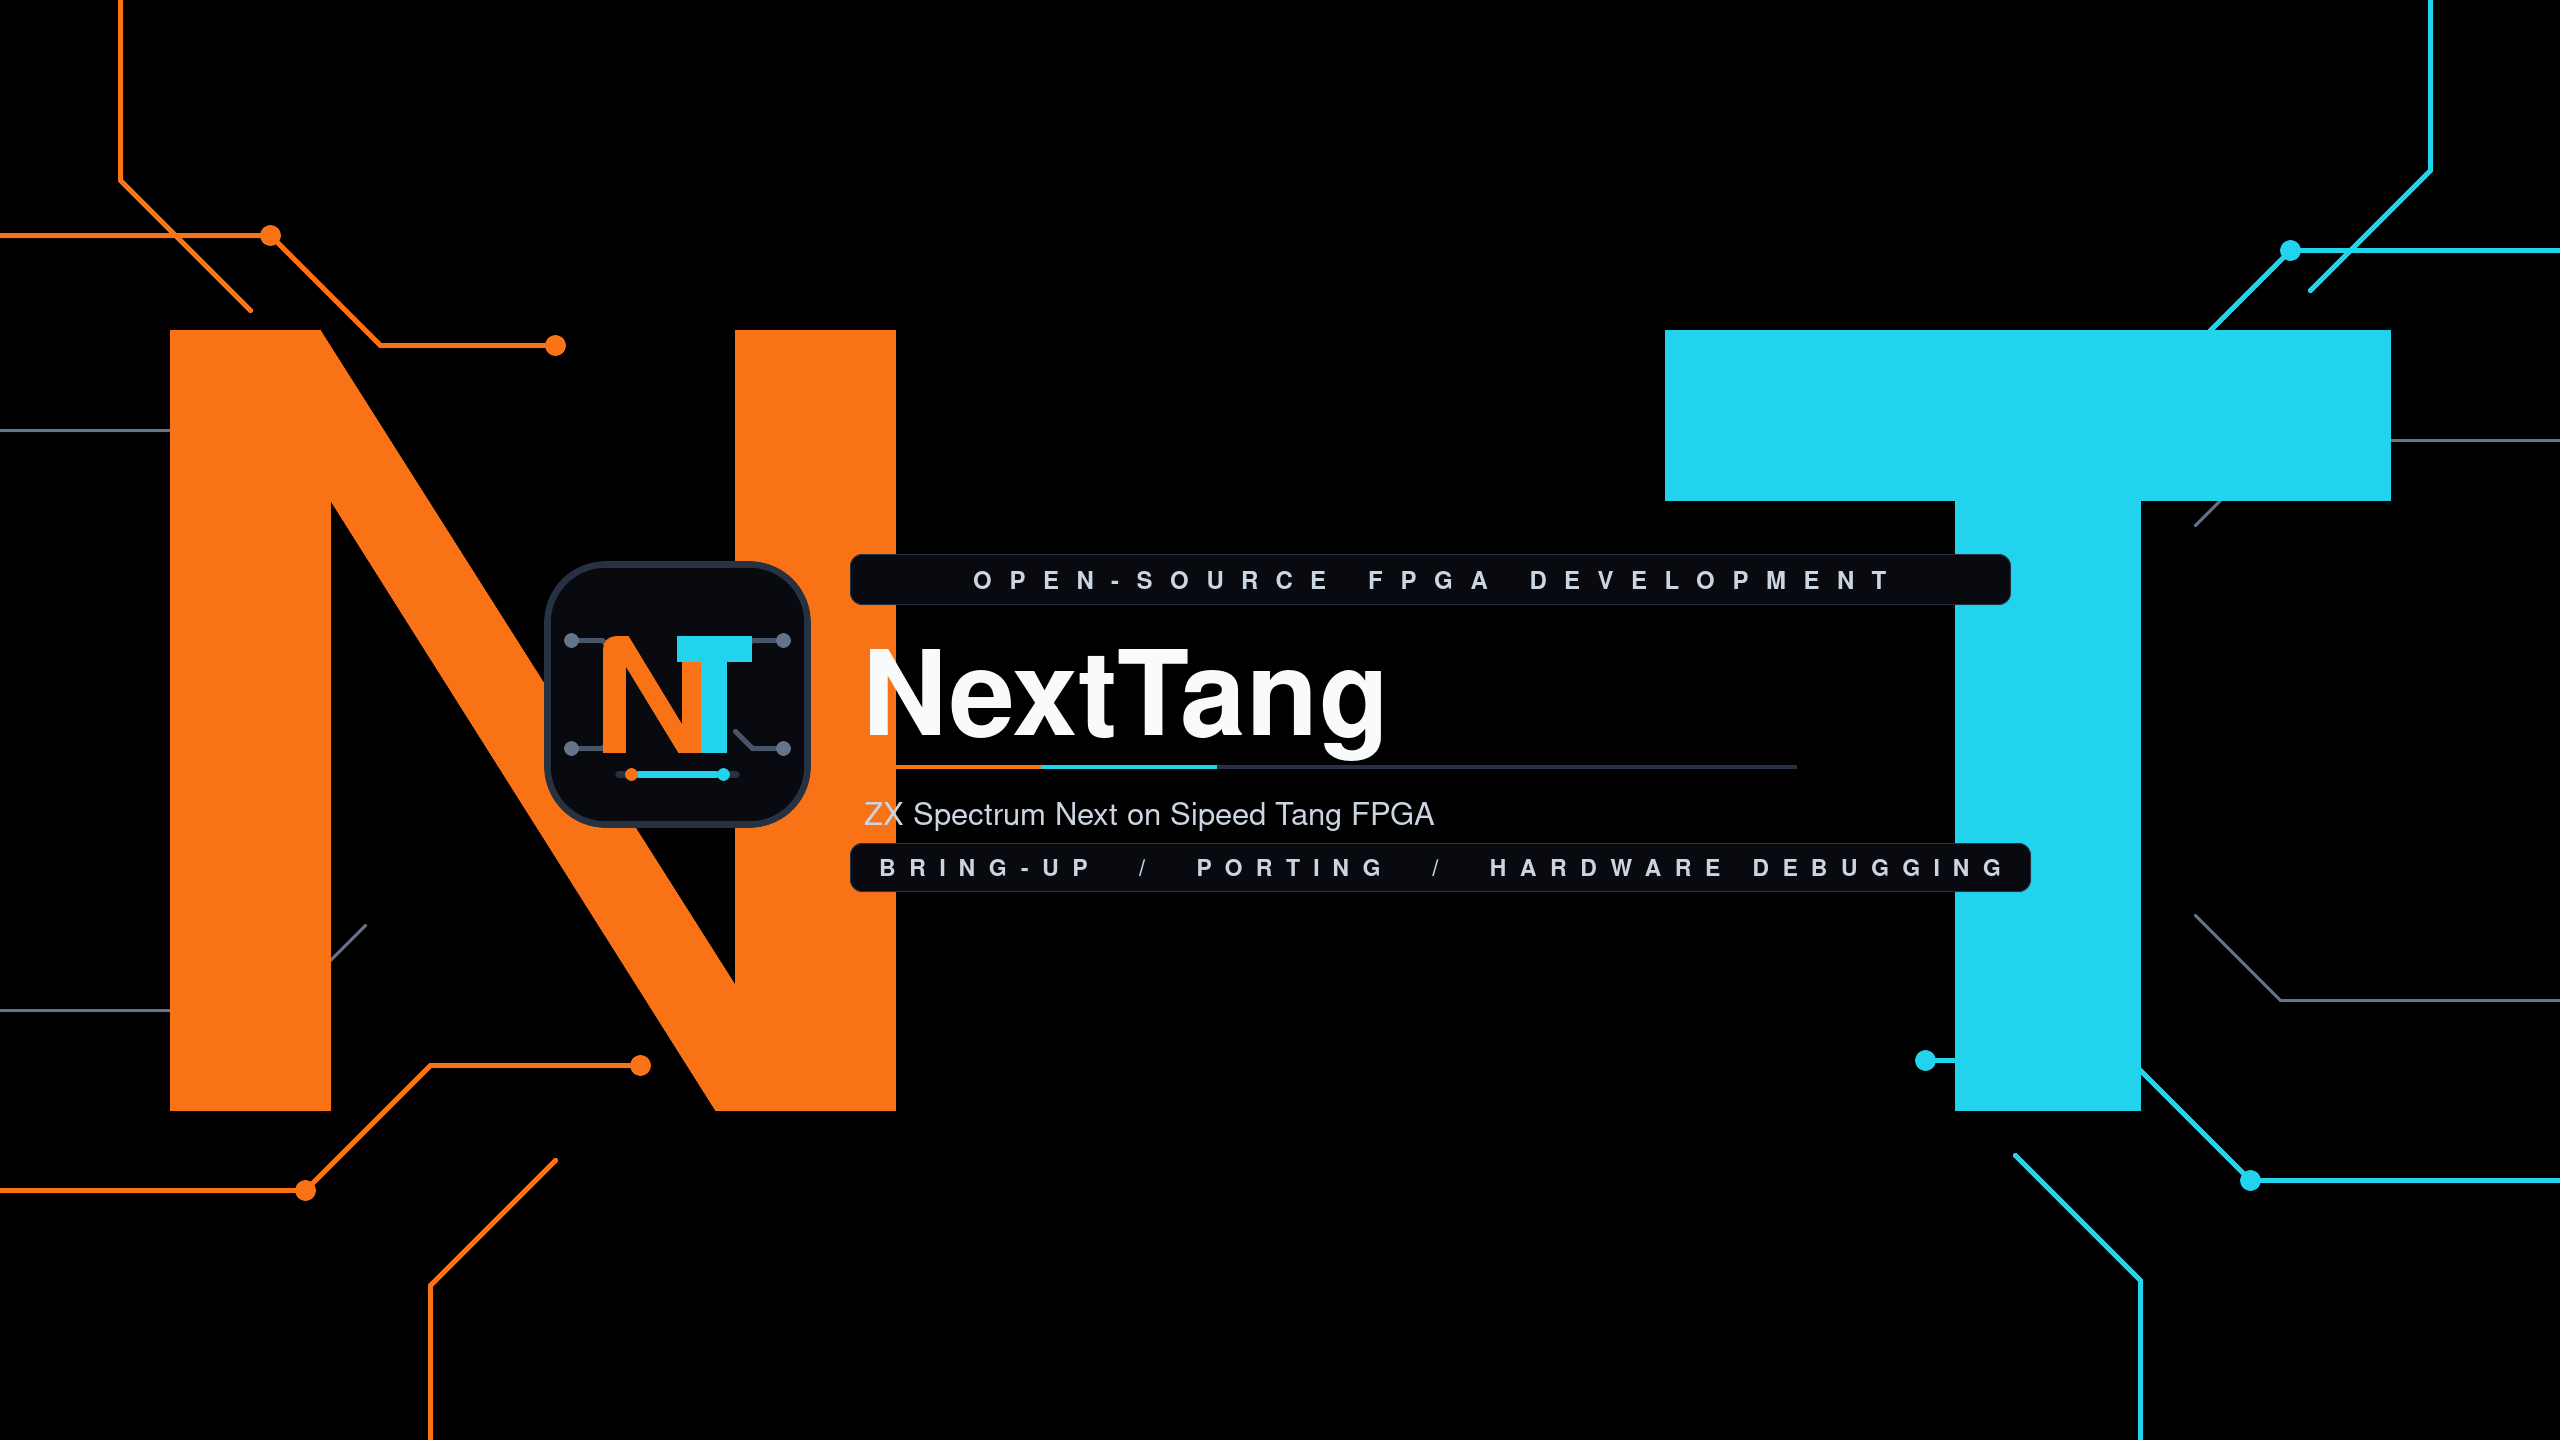
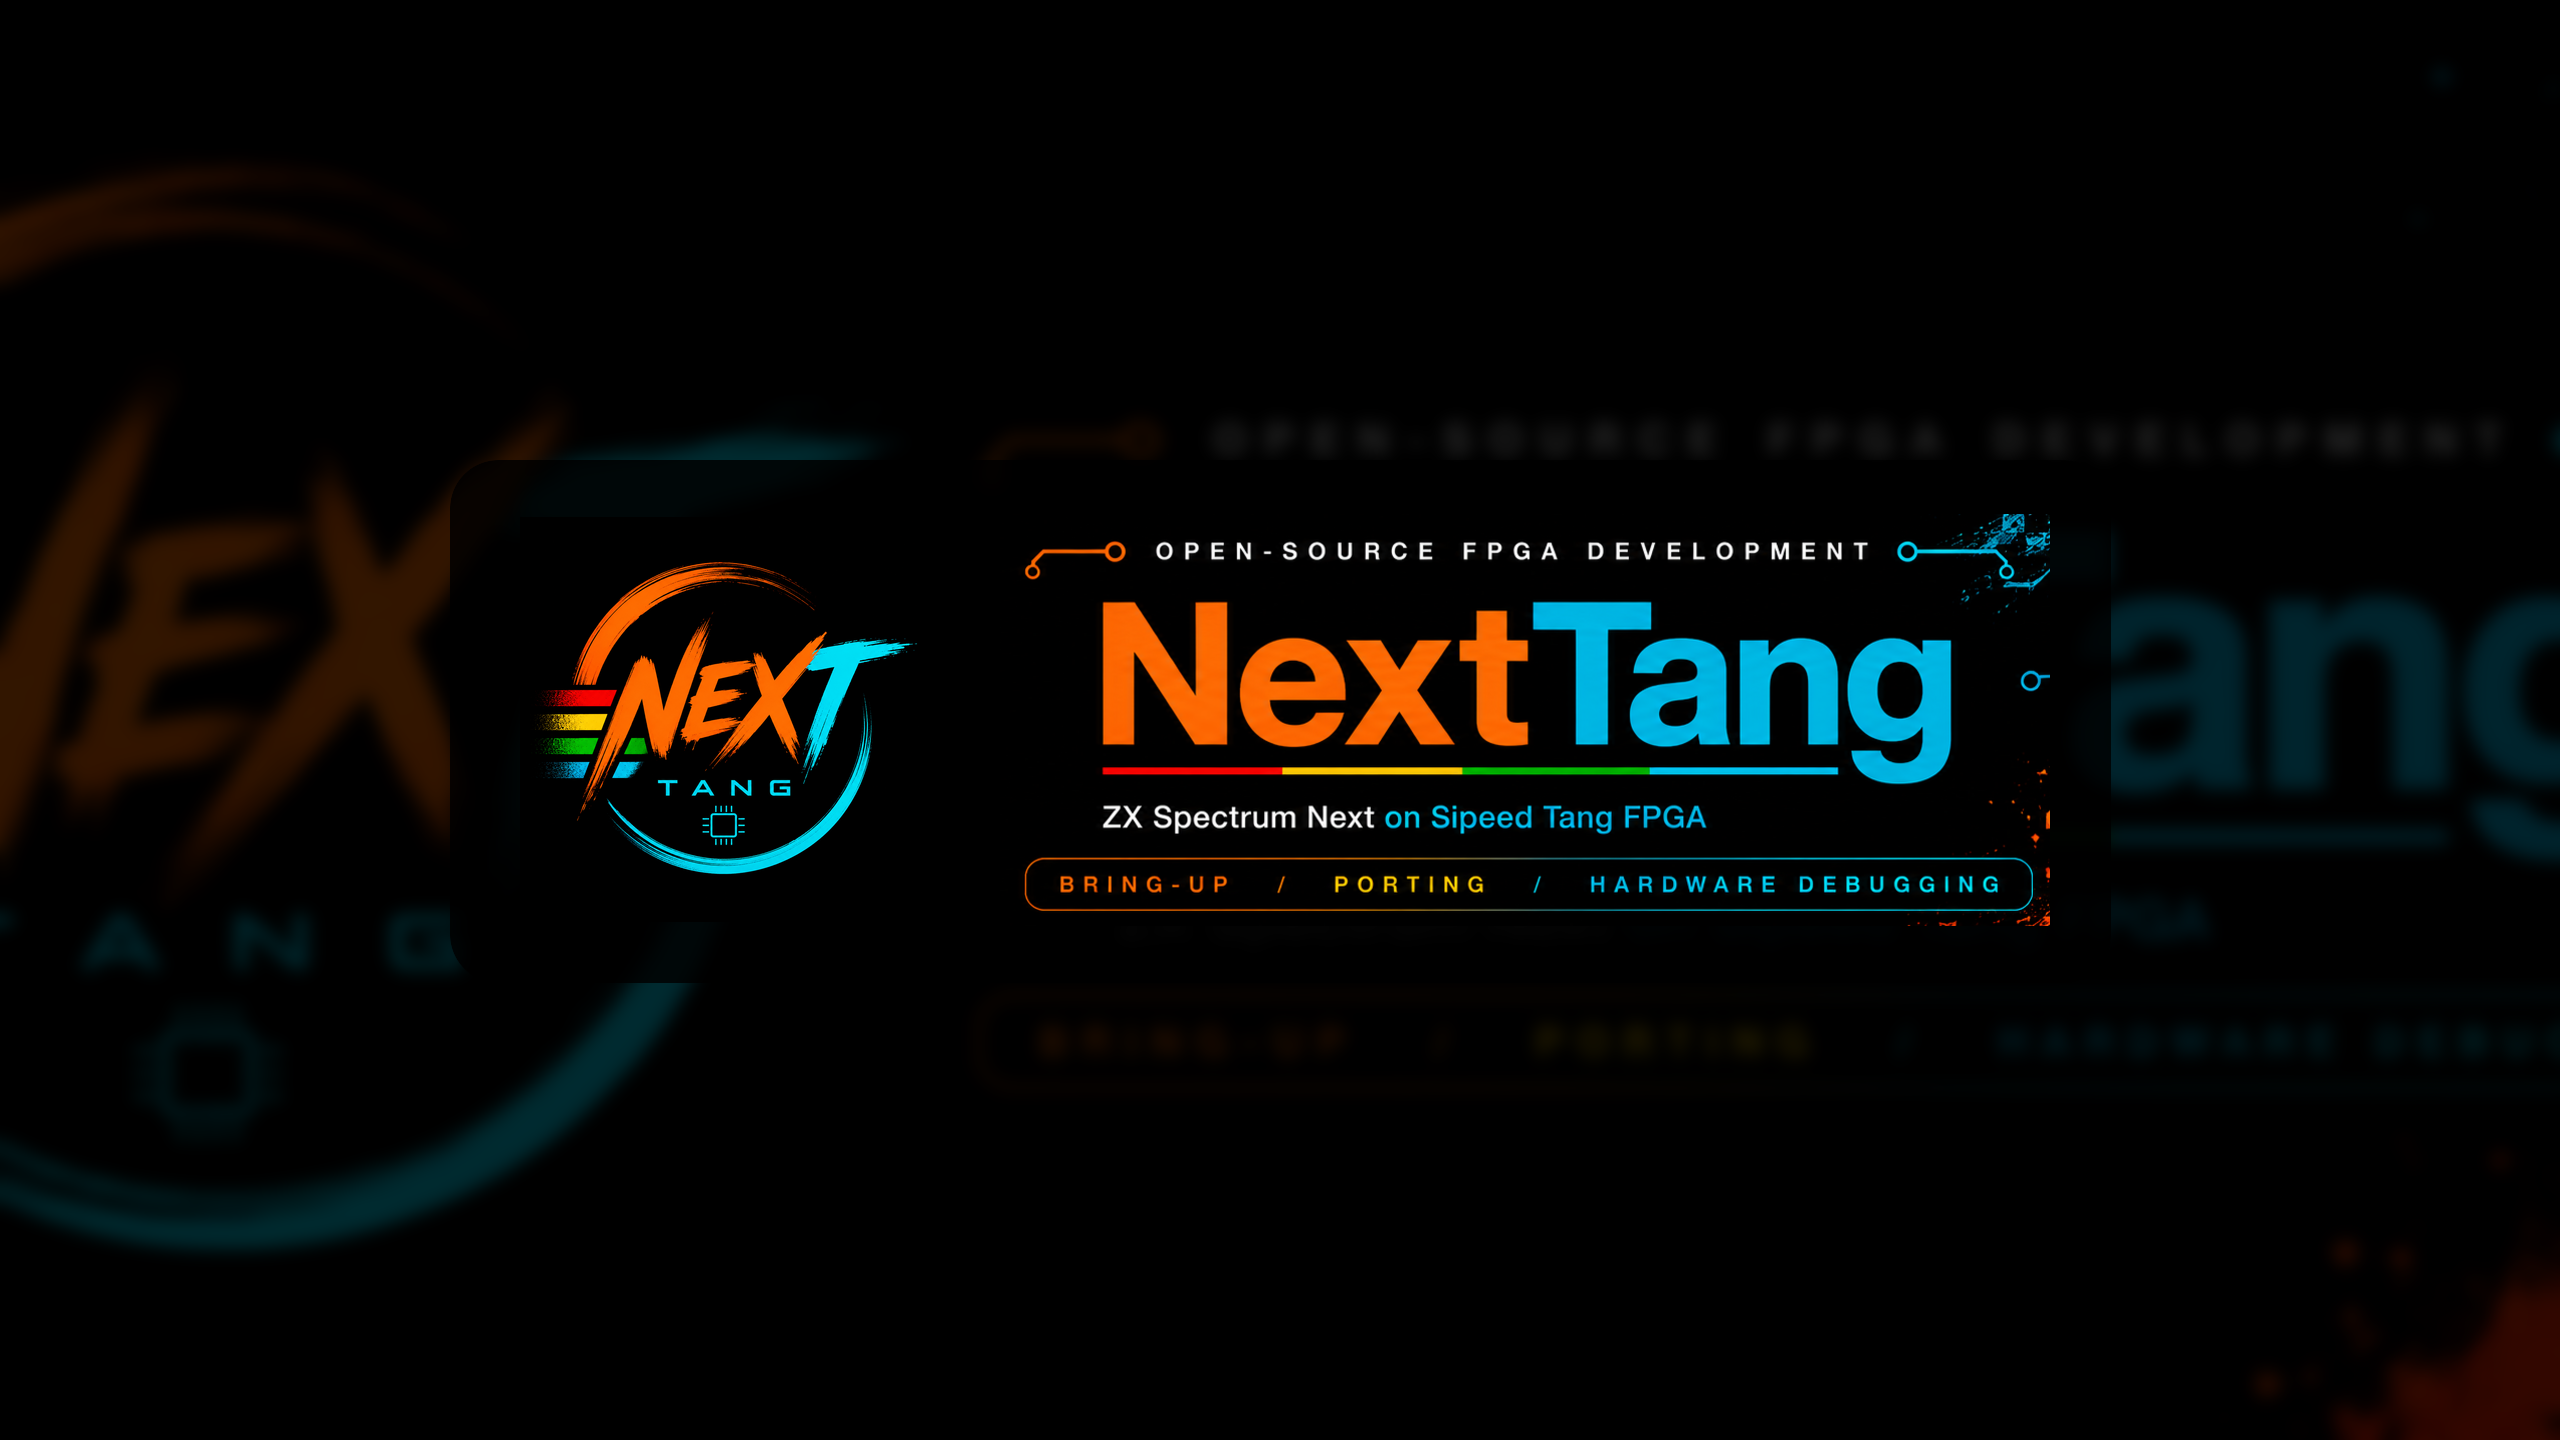
Replace project branding and add YouTube link

diff --git a/README.md b/README.md
@@ -1,9 +1,9 @@
 <p align="center">
-  <img src="./assets/brand/logo.svg" width="160" alt="NextTang NT hardware-trace logo">
+  <img src="./assets/brand/logo.png" width="180" alt="NextTang logo">
 </p>
 
 <p align="center">
-  <img src="./assets/readme/hero.svg" width="100%" alt="NextTang: shared ZX Spectrum Next FPGA RTL for Tang Console 60K and 138K boards with a planned hardware debug path">
+  <img src="./assets/readme/hero.png" width="100%" alt="NextTang: ZX Spectrum Next on Sipeed Tang FPGA">
 </p>
 
 <p align="center">
@@ -12,6 +12,7 @@
   <a href="ROADMAP.md"><img alt="Status: planning" src="https://img.shields.io/badge/status-planning-f97316?style=flat-square"></a>
   <a href="#hardware-targets"><img alt="Targets: Tang Nano 20K, Console 60K, and Console 138K" src="https://img.shields.io/badge/targets-Nano_20K_%7C_Console_60K_%7C_138K-334155?style=flat-square"></a>
   <a href="https://t.me/NextTang"><img alt="Telegram: NextTang" src="https://img.shields.io/badge/Telegram-NextTang-26A5E4?style=flat-square&amp;logo=telegram&amp;logoColor=white"></a>
+  <a href="https://www.youtube.com/@NextTangFPGA"><img alt="YouTube: NextTang" src="https://img.shields.io/badge/YouTube-NextTang-FF0000?style=flat-square&amp;logo=youtube&amp;logoColor=white"></a>
   <a href="https://github.com/jattree/NextTang/issues"><img alt="Open issues" src="https://img.shields.io/github/issues/jattree/NextTang?style=flat-square"></a>
 </p>
 
@@ -21,6 +22,7 @@
   <a href="docs/provenance.md">Provenance</a> ·
   <a href="docs/toolchain.md">Toolchain</a> ·
   <a href="https://t.me/NextTang">Telegram</a> ·
+  <a href="https://www.youtube.com/@NextTangFPGA">YouTube</a> ·
   <a href="#contributing">Contributing</a> ·
   <a href="#references">References</a>
 </p>
@@ -161,7 +163,8 @@ toolchain you can use, and the area you would like to work on. Small,
 independently verifiable contributions are preferred.
 
 Project discussion, coordination, announcements, and roadmap updates are hosted
-in the [NextTang Telegram group](https://t.me/NextTang).
+in the [NextTang Telegram group](https://t.me/NextTang). Less technical project
+updates and build videos are on the [NextTang YouTube channel](https://www.youtube.com/@NextTangFPGA).
 
 ## References
 
